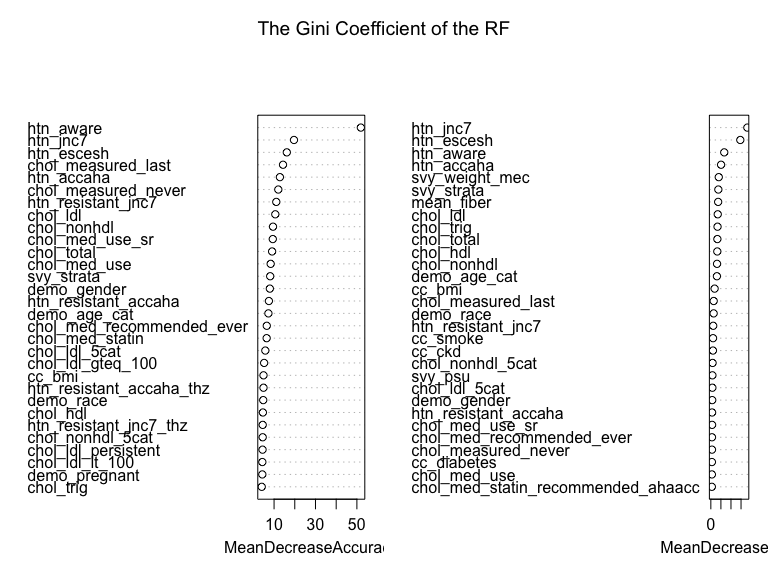
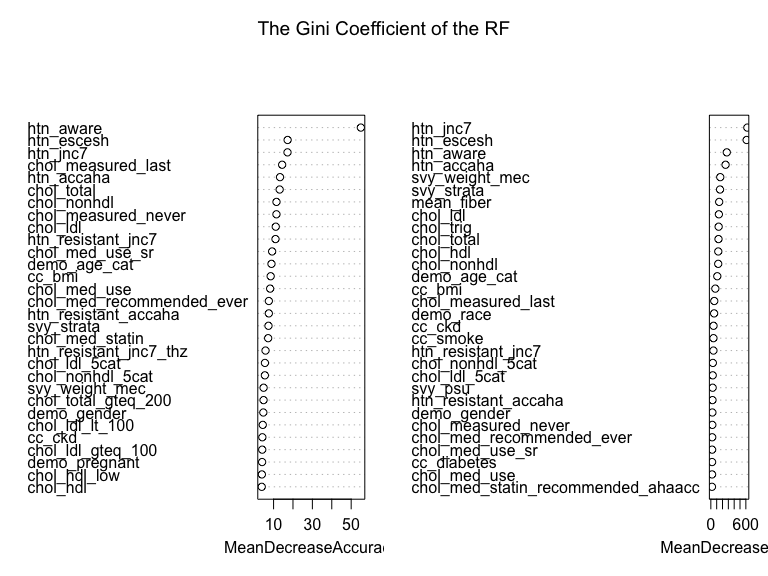
Conclusion

diff --git a/Main_Data_Analysis.md b/Main_Data_Analysis.md
@@ -1,7 +1,7 @@
 Main Data Analysis
 ================
 Yangyang Chen
-2024-01-16
+2024-01-17
 
 ## Data
 
@@ -65,7 +65,7 @@ fiber_df =
   rbind(df_17)
 ```
 
-### Data Cleaning - Filter female data
+### Data Cleaning
 
 ``` r
 fiber_tidy_df = 
@@ -99,25 +99,40 @@ df_with_bp_2 <-
 ## Exploratory Data Analysis
 
 ``` r
-# Summary statistics
-data_summary <- dfSummary(df)
-
-# Histogram of mean_fiber
-ggplot(df, aes(x = mean_fiber)) +
-  geom_histogram(binwidth = 1, fill = "blue", color = "black", alpha = 0.7) +
-  labs(title = "Distribution of Mean Fiber", x = "Mean Fiber", y = "Frequency")
+table_gender = 
+df_with_bp_2 %>%
+  group_by(demo_gender) %>%
+  summarise(
+    Count = n(), # total number of entries for each gender
+    Controlled = sum(bp == "controlled"), # number of outcomes with value 0
+    Uncontrolled = sum(bp == "uncontrolled"), # number of outcomes with value 1
+    Percentage = Controlled/Count
+  ) %>%
+  knitr::kable(digits = 3)  
 ```
-
-<img src="Main_Data_Analysis_files/figure-gfm/unnamed-chunk-4-1.png" width="90%" />
 
 ``` r
-# Boxplot of mean_fiber by demo_race
-ggplot(df, aes(x = demo_race, y = mean_fiber, fill = demo_race)) +
-  geom_boxplot() +
-  labs(title = "Boxplot of Mean Fiber by Race", x = "Race", y = "Mean Fiber")
+# Define age intervals
+age_breaks <- c(-Inf, 18, 45, 65, 75, Inf)
+age_labels <- c("Under 18",'18-44', '45-64', '65-74', 'Over 75')
+
+# Create age groups and summarize outcomes
+df_with_bp_2 %>%
+  mutate(Age_group = cut(demo_age_years, breaks = age_breaks, labels = age_labels, right = FALSE)) %>%
+  group_by(demo_age_cat) %>%
+  summarise(Count = n(),
+            Controlled = sum(bp == "controlled", na.rm = TRUE),
+            Uncontrolled = sum(bp == "uncontrolled", na.rm = TRUE),
+            Percentage = Controlled/(Controlled + Uncontrolled)) %>%
+  knitr::kable(digits = 3)  
 ```
 
-<img src="Main_Data_Analysis_files/figure-gfm/unnamed-chunk-4-2.png" width="90%" />
+| demo_age_cat | Count | Controlled | Uncontrolled | Percentage |
+|:-------------|------:|-----------:|-------------:|-----------:|
+| 18 to 44     |  7399 |       6908 |          491 |      0.934 |
+| 45 to 64     |  6294 |       4926 |         1368 |      0.783 |
+| 65 to 74     |  2529 |       1680 |          849 |      0.664 |
+| 75+          |  1799 |        986 |          813 |      0.548 |
 
 ``` r
 # Scatter plot of bp_sys_mean vs bp_dia_mean
@@ -127,7 +142,7 @@ ggplot(df, aes(x = bp_sys_mean, y = bp_dia_mean, color = demo_race)) +
        x = "Systolic Blood Pressure", y = "Diastolic Blood Pressure")
 ```
 
-<img src="Main_Data_Analysis_files/figure-gfm/unnamed-chunk-4-3.png" width="90%" />
+<img src="Main_Data_Analysis_files/figure-gfm/unnamed-chunk-5-1.png" width="90%" />
 
 ``` r
 df %>%
@@ -137,7 +152,7 @@ df %>%
   theme_minimal()
 ```
 
-<img src="Main_Data_Analysis_files/figure-gfm/unnamed-chunk-4-4.png" width="90%" />
+<img src="Main_Data_Analysis_files/figure-gfm/unnamed-chunk-5-2.png" width="90%" />
 
 ``` r
 df %>%
@@ -148,7 +163,7 @@ df %>%
   theme_minimal()
 ```
 
-<img src="Main_Data_Analysis_files/figure-gfm/unnamed-chunk-4-5.png" width="90%" />
+<img src="Main_Data_Analysis_files/figure-gfm/unnamed-chunk-5-3.png" width="90%" />
 
 ## Random Forests
 
@@ -233,7 +248,7 @@ accuracy = sum(diag(confustion_matrix))/sum(confustion_matrix)
 cat("Accuracy",accuracy,"\n")
 ```
 
-    ## Accuracy 0.8932667
+    ## Accuracy 0.8923418
 
 ``` r
 confustion_matrix %>%
@@ -242,8 +257,8 @@ confustion_matrix %>%
 
 |              | controlled | uncontrolled |
 |:-------------|-----------:|-------------:|
-| controlled   |       4119 |          346 |
-| uncontrolled |        231 |          710 |
+| controlled   |       4124 |          356 |
+| uncontrolled |        226 |          700 |
 
 Confusion Matrix of randomForest
 
@@ -252,9 +267,22 @@ importance = varImp(randomForest_model)
 varImpPlot(randomForest_model, main = "The Gini Coefficient of the RF")
 ```
 
-<img src="Main_Data_Analysis_files/figure-gfm/unnamed-chunk-8-1.png" width="90%" />
+<img src="Main_Data_Analysis_files/figure-gfm/unnamed-chunk-9-1.png" width="90%" />
 
 ### Logistics Regression
+
+``` r
+convert_to_factor <- function(df, columns) {
+  df[columns] <- lapply(df[columns], factor)
+  return(df)
+}
+
+df_tidy = 
+  df_with_bp_2 |>
+  convert_to_factor(c("bp", "demo_age_cat", "demo_race", "demo_race_black", "demo_pregnant", "demo_gender", "htn_jnc7", "htn_accaha",   "htn_escesh",   "htn_aware",    "htn_resistant_jnc7",   "htn_resistant_accaha", "htn_resistant_jnc7_thz",   "htn_resistant_accaha_thz", "chol_measured_never",  "chol_measured_last", "chol_total_gteq_200",    "chol_total_gteq_240", "chol_hdl_low", "chol_trig_gteq_150", "chol_ldl_5cat",   "chol_ldl_lt_70",   "chol_ldl_gteq_70", "chol_ldl_lt_100",  "chol_ldl_gteq_100",    "chol_ldl_gteq_190",    "chol_ldl_persistent", "chol_nonhdl_5cat",  "chol_nonhdl_lt_100",   "chol_nonhdl_gteq_100", "chol_nonhdl_gteq_220", "chol_med_use", "chol_med_use_sr",  "chol_med_statin",  "chol_med_ezetimibe",   "chol_med_pcsk9i",  "chol_med_bile",    "chol_med_fibric_acid", "chol_med_atorvastatin",    "chol_med_simvastatin", "chol_med_rosuvastatin",    "chol_med_pravastatin", "chol_med_pitavastatin",    "chol_med_fluvastatin", "chol_med_lovastatin",  "chol_med_other",   "chol_med_addon_use",   "chol_med_addon_recommended_ahaacc",    "chol_med_statin_recommended_ahaacc",   "chol_med_recommended_ever",    "ascvd_risk_vh_ahaacc", "cc_smoke", "cc_bmi",   "cc_diabetes",  "cc_ckd",   "cc_cvd_mi",    "cc_cvd_chd",   "cc_cvd_stroke",    "cc_cvd_ascvd", "cc_cvd_hf",    "cc_cvd_any"))
+
+glm_complete = glm(bp ~ ., data = df_tidy, family = binomial(link = logit))
+```
 
 ``` r
 # Create binary variable for 'bp_uncontrolled_jnc7'
